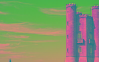
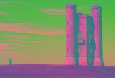
Code change

diff --git a/main.go b/main.go
@@ -19,7 +19,9 @@ func main() {
 	}
 	type dctPx [][]pixel
 
-	var imageSet = make([]dctPx, 0)
+	var (
+		br, bg, bb, by float64
+	)
 
 	input, err := os.Open("test.jpg")
 	defer input.Close()
@@ -34,35 +36,46 @@ func main() {
 
 	newImg := image.NewRGBA(img.Bounds())
 	dx, dy := img.Bounds().Max.X, img.Bounds().Max.Y
-	bdx, bdy := (dx - BlockSize), (dy - BlockSize)
+	bdx, bdy := (dx - BlockSize + 1), (dy - BlockSize + 1)
 
-	for i := 0; i < bdx; i++ {
-		for j := 0; j < bdy; j++ {
+	dctPixels := make(dctPx, dx*dy)
+
+	for i := 0; i < dx; i++ {
+		dctPixels[i] = make([]pixel, dy)
+		for j := 0; j < dy; j++ {
 			r, g, b, _ := img.At(i, j).RGBA()
-			yc, u, v := color.RGBToYCbCr(uint8(r>>8), uint8(g>>8), uint8(b>>8))
+			y, u, v := color.RGBToYCbCr(uint8(r>>8), uint8(g>>8), uint8(b>>8))
+			for x := 0; x < bdx; x++ {
+				for y := 0; y < bdy; y++ {
+					r, g, b, _ := img.At(x, y).RGBA()
+					yc, _, _ := color.RGBToYCbCr(uint8(r>>8), uint8(g>>8), uint8(b>>8))
 
-			dctPixels := make(dctPx, BlockSize)
-
-			for x := 0; x < BlockSize; x++ {
-				for y := 0; y < BlockSize; y++ {
-					dctPixels[x] = make([]pixel, BlockSize)
-
-					br := dct(float64(x), float64(y), float64(i), float64(j), max(bdx, bdy)) * float64(r)
-					bg := dct(float64(x), float64(y), float64(i), float64(j), max(bdx, bdy)) * float64(g)
-					bb := dct(float64(x), float64(y), float64(i), float64(j), max(bdx, bdy)) * float64(b)
-					by := dct(float64(x), float64(y), float64(i), float64(j), max(bdx, bdy)) * float64(yc)
-
-					dctPixels[x][y] = pixel{br, bg, bb, by}
+					br += dct(float64(x), float64(y), float64(i), float64(j), max(dx, dy)) * float64(r)
+					bg += dct(float64(x), float64(y), float64(i), float64(j), max(dx, dy)) * float64(g)
+					bb += dct(float64(x), float64(y), float64(i), float64(j), max(dx, dy)) * float64(b)
+					by += dct(float64(x), float64(y), float64(i), float64(j), max(dx, dy)) * float64(yc)
 				}
 			}
-			imageSet = append(imageSet, dctPixels)
-			newImg.Set(i, j, color.RGBA{uint8(yc), uint8(u), uint8(v), 255})
+			// normalization
+			alpha := func(a float64) float64 {
+				if a == 0 {
+					return math.Sqrt(1.0 / max(dx, dy))
+				} else {
+					return math.Sqrt(2.0 / max(dx, dy))
+				}
+			}
 
-			//r1, g1, b1 := color.YCbCrToRGB(y, u, v)
-			//newImg.Set(i, j, color.RGBA{uint8(r1>>8), uint8(g1>>8), uint8(b1>>8), 255})
+			fi, fj := float64(i), float64(j)
+			br *= alpha(fi) * alpha(fj)
+			bg *= alpha(fi) * alpha(fj)
+			bb *= alpha(fi) * alpha(fj)
+			by *= alpha(fi) * alpha(fj)
+
+			dctPixels[i][j] = pixel{br, bg, bb, by}
+			newImg.Set(i, j, color.RGBA{uint8(y), uint8(u), uint8(v), 255})
 		}
 	}
-	fmt.Println(imageSet)
+	fmt.Println(dctPixels)
 
 	output, err := os.Create("output.png")
 	if err != nil {
@@ -101,15 +114,10 @@ func clamp255(x uint32) uint8 {
 }
 
 func dct(x, y, i, j, n float64) float64 {
-	// normalization
-	alpha := func(a float64) float64 {
-		if a == 0 {
-			return math.Sqrt(1.0 / n)
-		} else {
-			return math.Sqrt(2.0 / n)
-		}
-	}
-	return alpha(i) * alpha(j) * math.Cos(((2*x+1)*(i*math.Pi))/(2*n)) * math.Cos(((2*y+1)*(j*math.Pi))/(2*n))
+	a := math.Cos(((2*x+1)*(i*math.Pi))/(2*n))
+	b := math.Cos(((2*y+1)*(j*math.Pi))/(2*n))
+
+	return a * b
 }
 
 // max returns the biggest value between two numbers.
